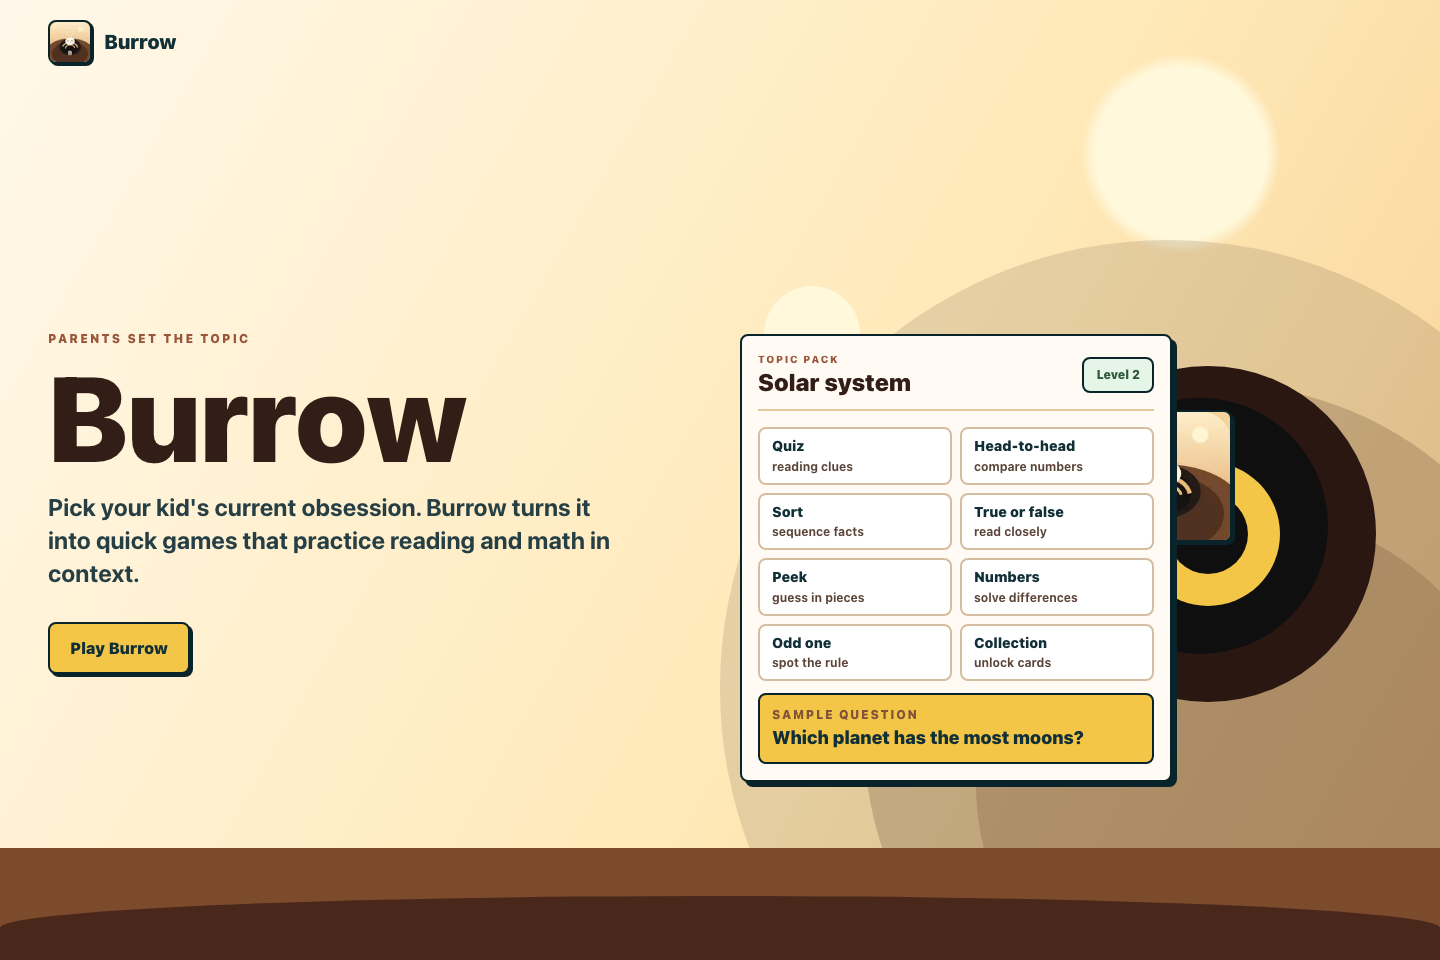
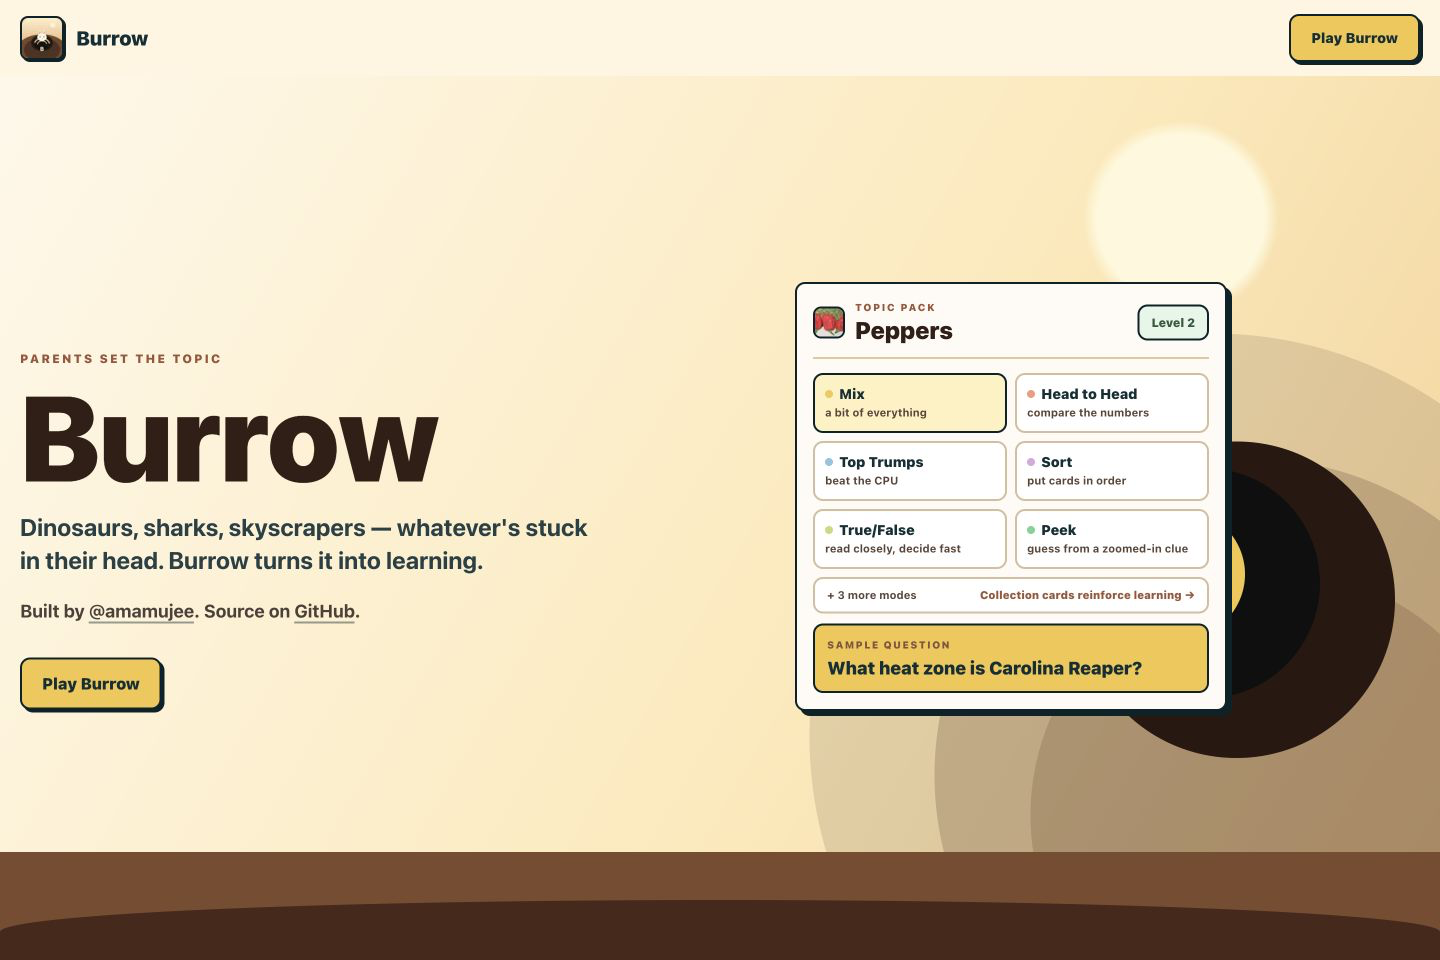
Refresh Burrow repository docs

diff --git a/README.md b/README.md
@@ -1,35 +1,28 @@
 # Burrow
 
-Burrow is a local-first learning game for short, visual quiz sessions. Pick a kid's current obsession, then Burrow turns it into fast reading and math rounds with real images, structured facts, and lightweight progress tracking.
+Burrow is a local-first learning game that turns a kid's current obsession into short, visual reading, math, science, and geography sessions. Choose the topics, build a custom Mix of game types, and let Burrow keep the practice varied while progress and collections grow.
 
 [![CI](https://github.com/amamujee/burrow/actions/workflows/ci.yml/badge.svg)](https://github.com/amamujee/burrow/actions/workflows/ci.yml)
 
-![Burrow home screen](docs/screenshots/home.png)
+![Burrow landing page](docs/screenshots/home.png)
 
-## What It Does
+## What Burrow Does
 
-- Runs quick rounds across quiz, head-to-head, Top Trumps, sorting, true/false, peek, number, and odd-one-out modes.
-- Ships with curated topic packs for peppers, skyscrapers, sharks, space, and jets.
-- Keeps gameplay local: topic images are cached in `public/burrow-assets`, and player progress lives in `localStorage`.
-- Tracks image provenance on every card so visual content can be audited or refreshed.
-- Includes content QA scripts, local image checks, and Playwright coverage for the main play flow.
+- Makes **Mix** a first-class multi-select: include any combination of Quiz Run, Head to Head, Top Trumps, Sort, True/False, Peek, Numbers, Odd One, and Geo Finder.
+- Keeps single-mode play available when a child wants to focus on one game type.
+- Ships with ten topic packs: peppers, skyscrapers, sharks, space, jets, countries and flags, dinosaurs, mountains, tall trees, and bridges and tunnels.
+- Uses real facts, comparable stats, maps, and credited local images to teach in context.
+- Adapts future questions using recent answers and revisits concepts that need more practice.
+- Unlocks collection cards through correct answers while preserving separate progress for each player.
+- Stores player progress locally and caches the app shell and learning assets for offline use.
 
-![Burrow play screen](docs/screenshots/play.png)
+![Burrow custom Mix and game screen](docs/screenshots/play.png)
 
-## Links
+## How the Content Is Organized
 
-- Repository: [github.com/amamujee/burrow](https://github.com/amamujee/burrow)
-- Issues: [github.com/amamujee/burrow/issues](https://github.com/amamujee/burrow/issues)
-- Next.js app docs: [nextjs.org/docs/app](https://nextjs.org/docs/app)
-- Vercel deploy docs: [vercel.com/docs](https://vercel.com/docs)
+The six core catalogs—peppers, skyscrapers, sharks, space, jets, and countries—are wired through `src/lib/game-data.ts`, with country records in `src/lib/countries-data.ts`. Contributor-friendly playable packs live under `content/packs/` and are loaded by the app when their `pack.json` has `"status": "playable"`.
 
-## Tech Stack
-
-- [Next.js](https://nextjs.org/) 16 App Router
-- [React](https://react.dev/) 19
-- [Tailwind CSS](https://tailwindcss.com/) 4
-- [Playwright](https://playwright.dev/) for end-to-end tests
-- [Vercel Analytics](https://vercel.com/analytics)
+Every card includes structured facts, comparable stats, local imagery, and image provenance. Gameplay never needs to hotlink topic images from the internet.
 
 ## Getting Started
 
@@ -38,88 +31,73 @@ Requirements:
 - Node.js 20.9 or newer
 - npm
 
-Install dependencies and start the local app:
+Install dependencies and run the app:
 
 ```bash
 npm install
 npm run dev
 ```
 
-Open [http://localhost:3000](http://localhost:3000), or go straight to the game at [http://localhost:3000/play](http://localhost:3000/play).
+Open [http://localhost:3000](http://localhost:3000), or go directly to [http://localhost:3000/play](http://localhost:3000/play).
 
 ## Useful Scripts
 
 ```bash
-npm run dev          # Start the Next.js dev server
-npm run build        # Create a production build
-npm run start        # Run the production build
+npm run dev            # Start the Next.js development server
+npm run build          # Create a production build
+npm run start          # Run the production build
 npm run lint           # Run ESLint
 npm run validate:packs # Validate repo-authored pack JSON files
 npm run check:images   # Verify gameplay images are local and present
-npm run qa:content     # Run content quality checks
-npm run test:e2e       # Run Playwright tests
-npm run verify         # Run the full pre-publish check
+npm run qa:content     # Run content-quality checks
+npm run test:logic     # Run logic and content coverage
+npm run test:e2e       # Build and run browser coverage
+npm run verify         # Run the complete pre-publish check
 ```
 
 ## Make Your Own Pack
 
-Burrow has a repo-level pack authoring format for parents and contributors who want to turn a kid's current obsession into a future playable pack. This is the v1 path: make a JSON pack in the repo, validate it, and keep it in your fork or open a pull request.
-
-Start by copying the template:
+Copy the template to start a new topic:
 
 ```bash
 cp -R content/packs/_template content/packs/construction-trucks
 ```
 
-Then edit `content/packs/construction-trucks/pack.json`:
+Then:
 
-- Change `id` to match the folder name, such as `construction-trucks`.
-- Add a kid-friendly `title` and `summary`.
-- Add at least 16 cards for good replay variety.
-- Give each card a local image path like `/burrow-assets/construction-trucks/excavator.jpg`.
-- Put the matching image file in `public/burrow-assets/construction-trucks/`.
-- Reuse at least 2 stat IDs across most cards, such as `weight`, `speed`, `height`, or `length`.
-- Add categories so Burrow can later build odd-one-out and sorting rounds.
-- Include `imageCredit` and `imageSourceUrl` for every card.
-
-Validate the pack:
+1. Edit `content/packs/construction-trucks/pack.json` and keep the folder and pack IDs aligned.
+2. Add at least 16 cards, reusable numeric stats, useful categories, and short child-friendly facts.
+3. Put each credited image under `public/burrow-assets/construction-trucks/`.
+4. Set the pack status to `playable` when it is ready to appear in Burrow.
+5. Validate it:
 
 ```bash
 npm run validate:packs -- --pack construction-trucks
 ```
 
-For a deeper walkthrough, see [docs/pack-authoring.md](docs/pack-authoring.md). The live game still uses the curated TypeScript topic data below. New JSON packs are the contributor-friendly staging format for future generic pack support.
+See [Making a Burrow Pack](docs/pack-authoring.md) for the schema, image rules, examples, and contributor checklist.
 
-## Built-In Content Packs
+## Content Quality and Privacy
 
-Topic records currently live in `src/lib/game-data.ts`. Each playable card keeps structured stats plus image provenance:
+- `npm run check:images` rejects missing files and remote runtime image URLs.
+- `npm run qa:content` checks content completeness, quality signals, and playable pack data.
+- The in-game **Flag image** action stores a report locally and sends it to `POST /api/content-issues`; local development writes `.burrow/content-issues.jsonl`.
+- Anonymous play-quality events can be summarized with `npm run analyze:play-events`. Player names are not sent, and local identifiers are hashed before server logging.
+- `.burrow/`, environment files, Vercel project metadata, test output, and local QA screenshots are ignored by git.
 
-- `contentImage(topic, id, sourceFile)` points gameplay at `/public/burrow-assets/...`.
-- `imageCredit` credits the curated source.
-- `imageSourceFile` and `imageSourceUrl` preserve where the local asset came from.
+## Tech Stack
 
-The app should not load topic images from the internet during play. To add a topic or card:
+- [Next.js](https://nextjs.org/) 16 App Router
+- [React](https://react.dev/) 19
+- [Tailwind CSS](https://tailwindcss.com/) 4
+- [Playwright](https://playwright.dev/) for logic and browser coverage
+- [Vercel Analytics](https://vercel.com/analytics)
 
-1. Add the structured record and `contentImage(...)` source metadata.
-2. Run `npm run sync:assets` during development to cache images locally.
-3. Run `npm run check:images`; it fails on missing local assets or remote runtime image URLs.
+## Contributing
 
-Use `npm run sync:assets -- --only=sharks/great-white --force` to refresh one asset.
+- Run `npm run verify` before opening a pull request.
+- Keep `public/burrow-assets` committed so the game remains local-first and offline-friendly.
+- Preserve image credits and source URLs whenever content or imagery changes.
+- Use [GitHub Issues](https://github.com/amamujee/burrow/issues) for bugs and content problems.
 
-## Content Issue Reports
-
-The in-game "Flag image" control stores a local report in the browser and posts it to `POST /api/content-issues`. In local development, the API appends reports to `.burrow/content-issues.jsonl`, which is intentionally ignored by git.
-
-## Play Quality Signals
-
-Burrow records anonymous play events for views, answers, skips, flags, and setup changes. The browser keeps the latest events in `localStorage` under `burrow-play-events-v1`, queues unsent events under `burrow-play-events-pending-v1`, and posts batches to `POST /api/play-events`. In local development, the API appends JSONL to `.burrow/play-events.jsonl`; in hosted environments it also emits structured `burrow.play_event` server logs.
-
-Production still sends compact `Burrow Play` custom events to Vercel Analytics with mode, topic, stable question key/hash, difficulty, outcome, and answer time. Player names are not sent. Browser/profile identity uses a local anonymous install id plus profile id, then hashes that value before logging.
-
-Run `npm run analyze:play-events` to summarize `.burrow/play-events.jsonl` by repeated views, skip rate, accuracy, and flags. Pass a path to inspect an exported log: `npm run analyze:play-events -- path/to/play-events.jsonl`.
-
-## Publishing Notes
-
-- Keep `public/burrow-assets` committed so the game works offline and does not hotlink topic images.
-- Run `npm run verify` before opening a pull request or publishing a release.
-- The package stays marked as private to prevent accidental npm publishing; this repo is intended to be public source, not a published package.
+The package is intentionally marked private to prevent accidental npm publication; the repository itself is public source.

diff --git a/docs/pack-authoring.md b/docs/pack-authoring.md
@@ -129,15 +129,16 @@ Warnings are suggestions. Errors should be fixed before a pack is considered rea
 
 ## Current App Integration
 
-This pack format is the authoring path for new contributors. The live app still has topic-specific TypeScript data in `src/lib/game-data.ts`, `src/lib/questions.ts`, and `src/lib/game-modes.ts`.
+Burrow loads valid JSON packs from `content/packs/` and adapts them into playable cards at server startup. The six core catalogs still have topic-specific TypeScript data wired through `src/lib/game-data.ts`, `src/lib/questions.ts`, and `src/lib/game-modes.ts`, with country records in `src/lib/countries-data.ts`; JSON packs use the generic gameplay builders.
 
-For now, a new pack is considered ready when:
+A new pack is ready when:
 
 1. `content/packs/<pack-id>/pack.json` validates.
 2. Its images are committed under `public/burrow-assets/<pack-id>/`.
-3. A maintainer can adapt it into the current TypeScript topic data or use it as input for the upcoming generic pack runtime.
+3. Its pack file has `"status": "playable"`.
+4. `npm run verify` passes with the pack enabled.
 
-The future v2 product should make this same flow available inside Burrow with accounts, private packs, parent review, and sharing. This repo format is deliberately close to that future data model.
+Use `recommendedModes` in the pack file when a category should offer a narrower set of suitable generic game types.
 
 ## Contributor Checklist
 
